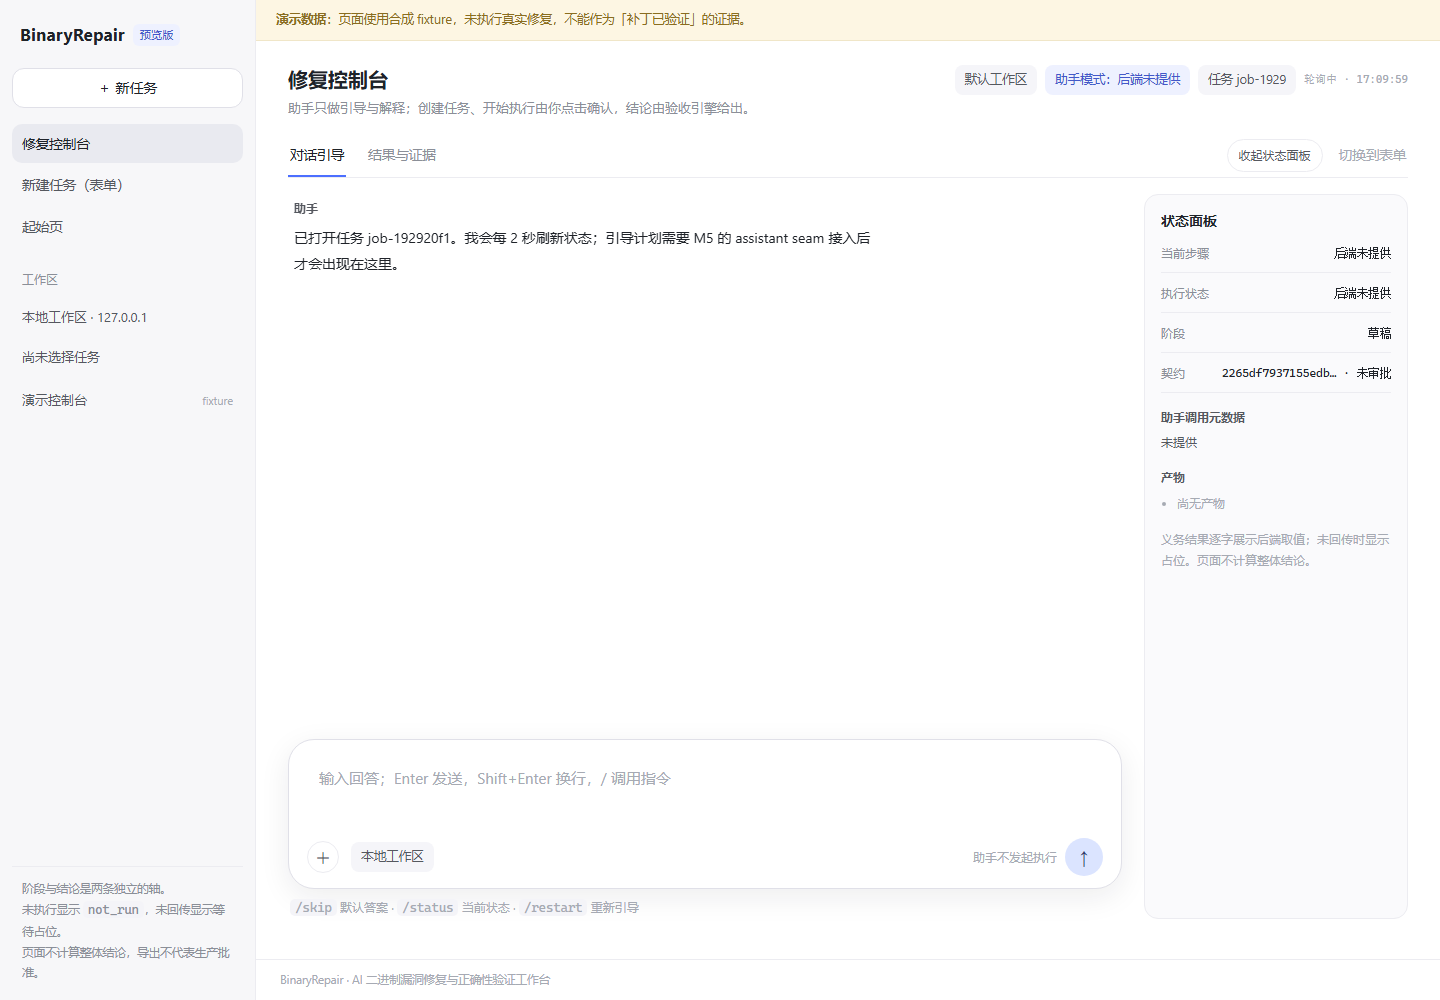
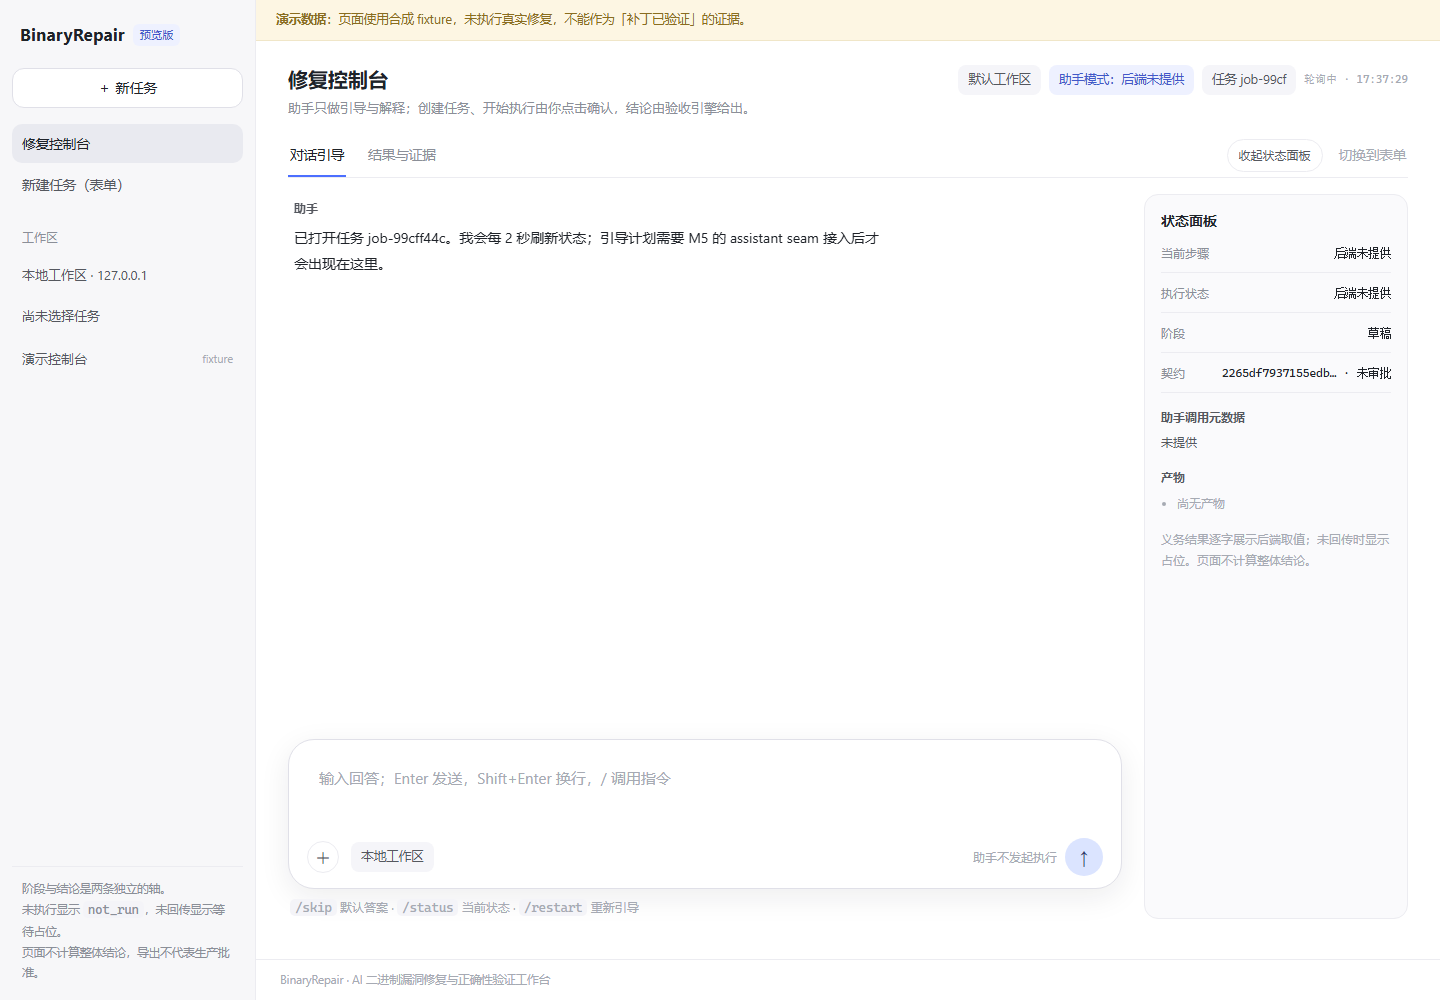
fix(gui): drop the duplicate landing entry from the workbench sidebar
The sidebar is only rendered inside the workbench, so a 起始页 link there is a second way back and an extra level. Remove it; the brand stays the single return path, and the core entries (console, form, current job) keep working. Pin it for /agent and /jobs/new.

diff --git a/app/templates/base.html b/app/templates/base.html
@@ -10,13 +10,12 @@
 <body class="ds-body" data-job-id="{{ job.id if job else '' }}" data-demo="{{ '1' if demo else '0' }}">
   <div class="ds-app">
     <aside class="ds-sidebar">
-      <a class="ds-brand" href="/">BinaryRepair <span class="ds-badge">预览版</span></a>
+      <a class="ds-brand" href="/" aria-label="返回起始页" title="返回起始页">BinaryRepair <span class="ds-badge">预览版</span></a>
       <a class="ds-new" href="/agent">＋ 新任务</a>
 
       <nav class="ds-nav" aria-label="主导航">
         <a href="/agent" class="{% if request.url.path == '/agent' %}is-active{% endif %}">修复控制台</a>
         <a href="/jobs/new" class="{% if request.url.path == '/jobs/new' %}is-active{% endif %}">新建任务（表单）</a>
-        <a href="/">起始页</a>
       </nav>
 
       {% if job %}

diff --git a/tests/test_agent_console.py b/tests/test_agent_console.py
@@ -215,3 +215,16 @@ def test_state_panel_can_collapse_into_a_single_column():
     assert "position: absolute" in collapsed[:400]
     assert ":hover" in collapsed[:2600]
     assert "max-width: 820px" in collapsed
+
+def test_workspace_nav_does_not_repeat_the_landing_entry():
+    """Inside the workbench the sidebar must not offer a second way back."""
+    for path in ("/agent", "/jobs/new"):
+        page = client.get(path)
+        assert page.status_code == 200
+        assert ">起始页<" not in page.text
+        # The brand stays the one way back, so the entry is still reachable.
+        assert 'class="ds-brand" href="/"' in page.text
+        assert 'aria-label="返回起始页"' in page.text
+        # Core entries remain.
+        assert 'href="/agent"' in page.text
+        assert 'href="/jobs/new"' in page.text
